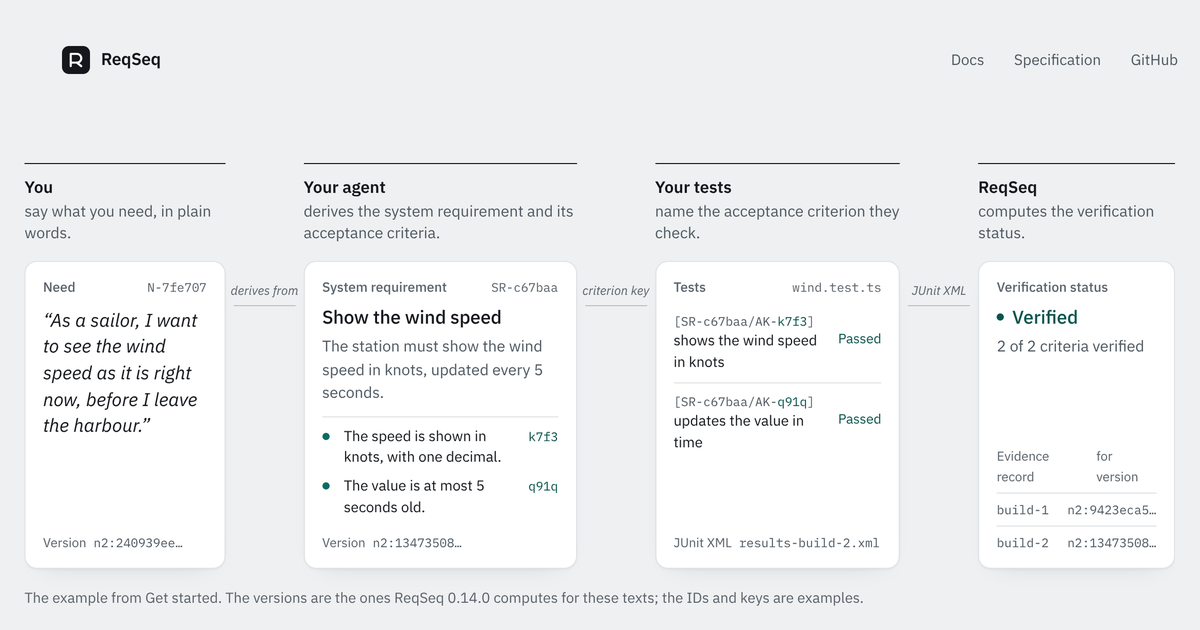
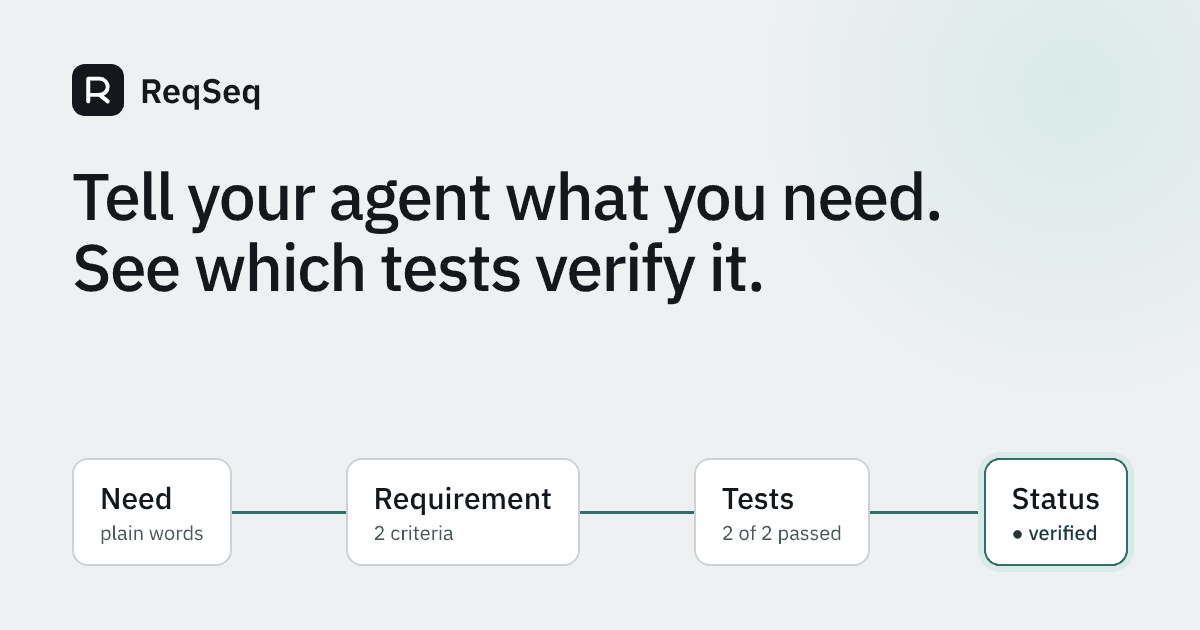
feat: first-visit pass: clearer hero, stage that waits, link preview (#10)
- Hero: shorter headline, how the agent works, what the download holds
  and which clients connect; system versions from the install guide.
- Stage starts once its cards are in view, rests on a short sentence,
  has Pause/Play, dims less and releases the dimming after a chosen step;
  the idle flow stops after three rounds. Chips are keyboard buttons.
- Start section names the path step and links Install and Connect.
- Second Download/Get started halfway down.
- New link preview image (tools/og.html), og/twitter meta, theme colour,
  font preload, lazy first screenshot, focus shows risen content,
  wording fixes from the review.

Claude-Session: https://claude.ai/code/session_01M3bZgpQEYe3Azsg5ZyeyQY

diff --git a/index.html b/index.html
@@ -4,16 +4,24 @@
 <meta charset="utf-8">
 <meta name="viewport" content="width=device-width, initial-scale=1">
 <meta name="color-scheme" content="light dark">
-<title>ReqSeq: requirements, traced from the need to the test that shows them</title>
-<meta name="description" content="ReqSeq is requirements engineering for agents and people. It traces a need through system requirements, acceptance criteria and tests to the evidence record of each test run, as Markdown files in your Git repository.">
+<title>ReqSeq: requirements your agent writes, traced to the tests that verify them</title>
+<meta name="description" content="Your agent breaks a need down into requirements, acceptance criteria and tests. ReqSeq traces them to each test run, as Markdown files in your Git repository.">
+<meta name="theme-color" media="(prefers-color-scheme: light)" content="#eef0f1">
+<meta name="theme-color" media="(prefers-color-scheme: dark)" content="#1a1d21">
 <link rel="canonical" href="https://thomasbirkmaier.github.io/">
 <meta property="og:type" content="website">
 <meta property="og:url" content="https://thomasbirkmaier.github.io/">
-<meta property="og:title" content="ReqSeq: requirements, traced from the need to the test that shows them">
-<meta property="og:description" content="Tell your agent what you need. It breaks the need down into system requirements, acceptance criteria and tests, and ReqSeq traces them through to the evidence record of each test run.">
+<meta property="og:site_name" content="ReqSeq">
+<meta property="og:title" content="ReqSeq: requirements your agent writes, traced to the tests that verify them">
+<meta property="og:description" content="Tell your agent what you need. See which tests verify it, and what is outdated since a requirement changed.">
 <meta property="og:image" content="https://thomasbirkmaier.github.io/assets/img/og.png">
+<meta property="og:image:width" content="1200">
+<meta property="og:image:height" content="630">
+<meta property="og:image:alt" content="ReqSeq: a need, its requirement, the tests and the status verified, in one chain.">
 <meta name="twitter:card" content="summary_large_image">
 <link rel="icon" href="favicon.svg" type="image/svg+xml">
+<link rel="preload" href="assets/fonts/ibm-plex-sans-400.woff2" as="font" type="font/woff2" crossorigin>
+<link rel="preload" href="assets/fonts/ibm-plex-sans-500.woff2" as="font" type="font/woff2" crossorigin>
 <link rel="stylesheet" href="assets/site.css">
 </head>
 <body class="no-js">
@@ -25,7 +33,7 @@
     <svg width="28" height="28" viewBox="0 0 32 32" aria-hidden="true"><rect class="logo-bg" width="32" height="32" rx="8"/><path class="logo-fg" d="M10 9h7a5 5 0 0 1 0 10h-7zM10 19v4M17 19l5 4" stroke-width="2.4" fill="none" stroke-linecap="round" stroke-linejoin="round"/></svg>
     ReqSeq
   </a>
-  <nav class="nav" aria-label="ReqSeq">
+  <nav class="nav" aria-label="Main">
     <a class="keep" href="https://thomasbirkmaier.github.io/ReqSeq/"><svg class="ico" viewBox="0 0 20 20" aria-hidden="true" focusable="false"><path pathLength="1" d="M10 5.5C8.5 4 6 3.5 3 3.5v12c3 0 5.5.5 7 2 1.5-1.5 4-2 7-2v-12c-3 0-5.5.5-7 2zM10 5.5v12"/></svg>Docs</a>
     <a href="https://thomasbirkmaier.github.io/ReqSeq/spec/"><svg class="ico" viewBox="0 0 20 20" aria-hidden="true" focusable="false"><path pathLength="1" d="M5 2.5h7l3.5 3.5v11.5H5z"/><path pathLength="1" d="M7.5 9.5l1.2 1.2 2.3-2.4M7.5 14h5"/></svg>Specification</a>
     <a class="keep" href="https://github.com/ThomasBirkmaier/ReqSeq"><svg class="ico gh" viewBox="0 0 16 16" aria-hidden="true" focusable="false"><path d="M8 0c4.42 0 8 3.58 8 8a8.013 8.013 0 0 1-5.45 7.59c-.4.08-.55-.17-.55-.38 0-.27.01-1.13.01-2.2 0-.75-.25-1.23-.54-1.48 1.78-.2 3.65-.88 3.65-3.95 0-.88-.31-1.59-.82-2.15.08-.2.36-1.02-.08-2.12 0 0-.67-.22-2.2.82-.64-.18-1.32-.27-2-.27-.68 0-1.36.09-2 .27-1.53-1.03-2.2-.82-2.2-.82-.44 1.1-.16 1.92-.08 2.12-.51.56-.82 1.28-.82 2.15 0 3.06 1.86 3.75 3.64 3.95-.23.2-.44.55-.51 1.07-.46.21-1.61.55-2.33-.66-.15-.24-.6-.83-1.23-.82-.67.01-.27.38.01.53.34.19.73.9.82 1.13.16.45.68 1.31 2.69.94 0 .67.01 1.3.01 1.49 0 .21-.15.45-.55.38A7.995 7.995 0 0 1 0 8c0-4.42 3.58-8 8-8Z"/></svg>GitHub</a>
@@ -35,24 +43,25 @@
 <main id="main">
 
 <div class="wrap hero">
-  <h1 aria-label="What you asked your agent for, traced to the test that shows it."><span class="w" style="--i:0" aria-hidden="true">What</span> <span class="w" style="--i:1" aria-hidden="true">you</span> <span class="w" style="--i:2" aria-hidden="true">asked</span> <span class="w" style="--i:3" aria-hidden="true">your</span> <span class="w" style="--i:4" aria-hidden="true">agent</span> <span class="w" style="--i:5" aria-hidden="true">for,</span> <span class="w" style="--i:6" aria-hidden="true">traced</span> <span class="w" style="--i:7" aria-hidden="true">to</span> <span class="w" style="--i:8" aria-hidden="true">the</span> <span class="w" style="--i:9" aria-hidden="true">test</span> <span class="w" style="--i:10" aria-hidden="true">that</span> <span class="w" style="--i:11" aria-hidden="true">shows</span> <span class="w" style="--i:12" aria-hidden="true">it.</span></h1>
-  <p class="lead">Tell your agent what you need. It breaks the need down into system requirements, acceptance criteria and tests, and ReqSeq traces them through to the evidence record of each test run. You keep the whole chain, not one specification document.</p>
+  <h1 aria-label="Tell your agent what you need. See which tests verify it."><span class="w" style="--i:0" aria-hidden="true">Tell</span> <span class="w" style="--i:1" aria-hidden="true">your</span> <span class="w" style="--i:2" aria-hidden="true">agent</span> <span class="w" style="--i:3" aria-hidden="true">what</span> <span class="w" style="--i:4" aria-hidden="true">you</span> <span class="w" style="--i:5" aria-hidden="true">need.</span> <span class="w" style="--i:6" aria-hidden="true">See</span> <span class="w" style="--i:7" aria-hidden="true">which</span> <span class="w" style="--i:8" aria-hidden="true">tests</span> <span class="w" style="--i:9" aria-hidden="true">verify</span> <span class="w" style="--i:10" aria-hidden="true">it.</span></h1>
+  <p class="lead">Your agent breaks the need down into system requirements and acceptance criteria through ReqSeq's MCP server or CLI, and names each criterion in the test that checks it. ReqSeq computes what is verified, and what is outdated once a requirement changes. You keep the whole chain, not one specification document.</p>
   <div class="actions">
     <a class="btn primary" href="https://github.com/ThomasBirkmaier/ReqSeq/releases/latest">Download ReqSeq</a>
     <a class="btn" href="https://thomasbirkmaier.github.io/ReqSeq/start/get-started/">Get started</a>
-    <p class="note">For macOS on Apple silicon, Linux x64 and Windows x64. <br>It runs on your computer and opens no network connection.</p>
+    <p class="note">One download with the command line, the MCP server and the web UI, for macOS 26 or newer on Apple silicon, Linux x64 (Ubuntu 24.04) and Windows 11 x64. <br>Connects to Claude Code, Cursor, VS Code, Codex CLI and Claude Desktop. Runs on your computer and opens no network connection.</p>
   </div>
 
   <div class="stage" id="stage" role="group" aria-label="The chain from a need to its evidence, shown in seven steps" data-ch="7" data-need="3" data-sr="3" data-rel="ok" data-keys="0" data-t1="1" data-t2="1" data-c1="ok" data-c2="ok" data-count="2" data-ver="ok" data-build="2">
     <div class="stage-head">
       <p class="say" aria-hidden="true">
+        <span data-c="0">From a need to a verified requirement, in seven steps.</span>
         <span data-c="1">You describe a need in plain words.</span>
-        <span data-c="2">Your agent derives a system requirement from it, with acceptance criteria.</span>
-        <span data-c="3">Each test names the acceptance criterion it checks, by its key.</span>
-        <span data-c="4">The test results come in as JUnit XML. ReqSeq computes the status: verified.</span>
-        <span data-c="5">Later the need changes. The relation still holds its old version, so it shows as outdated.</span>
-        <span data-c="6">You review the requirement, and it changes too. Its evidence is for the older version.</span>
-        <span data-c="7">The tests run again. The requirement is verified, for the version it has now.</span>
+        <span data-c="2">Your agent derives a system requirement with acceptance criteria.</span>
+        <span data-c="3">Each test names the criterion it checks, by its key.</span>
+        <span data-c="4">Test results arrive as JUnit XML. Status: verified.</span>
+        <span data-c="5">Later the need changes. The relation shows as outdated.</span>
+        <span data-c="6">You review the requirement, and it changes too. Its evidence is now outdated.</span>
+        <span data-c="7">The tests run again: verified, for the current version.</span>
       </p>
       <div class="ctl">
         <div class="segs" id="segs">
@@ -64,14 +73,14 @@
           <button class="seg" type="button" aria-label="Step 6: the evidence is outdated"><span><i></i></span></button>
           <button class="seg" type="button" aria-label="Step 7: verified again"><span><i></i></span></button>
         </div>
-        <button class="replay" type="button" id="stage-replay">Replay</button>
+        <button class="replay" type="button" id="stage-replay">Play</button>
       </div>
     </div>
-    <div class="mini" aria-hidden="true">
-      <button type="button" class="chip" data-view="1" tabindex="-1"><b>Need</b><span class="chip-s"></span></button><i class="mini-l m-1"></i>
-      <button type="button" class="chip" data-view="2" tabindex="-1"><b>Requirement</b><span class="chip-s"></span></button><i class="mini-l m-2"></i>
-      <button type="button" class="chip" data-view="3" tabindex="-1"><b>Tests</b><span class="chip-s"></span></button><i class="mini-l m-3"></i>
-      <button type="button" class="chip" data-view="4" tabindex="-1"><b>Status</b><span class="chip-s"></span></button>
+    <div class="mini" role="group" aria-label="Parts of the chain">
+      <button type="button" class="chip" data-view="1" aria-pressed="false"><b>Need</b><span class="chip-s"></span></button><i class="mini-l m-1"></i>
+      <button type="button" class="chip" data-view="2" aria-pressed="false"><b>Requirement</b><span class="chip-s"></span></button><i class="mini-l m-2"></i>
+      <button type="button" class="chip" data-view="3" aria-pressed="false"><b>Tests</b><span class="chip-s"></span></button><i class="mini-l m-3"></i>
+      <button type="button" class="chip" data-view="4" aria-pressed="false"><b>Status</b><span class="chip-s"></span></button>
     </div>
     <div class="chain-grid">
       <div class="lane lane-1"><b>You</b><span>say what you need, in plain words.</span></div>
@@ -140,7 +149,7 @@
   <div class="pillars">
     <div class="pillar">
       <h3><svg class="ico" viewBox="0 0 20 20" aria-hidden="true" focusable="false"><path pathLength="1" d="M3 4.5h14v9H8l-4 3v-3H3z"/><path pathLength="1" d="M6.5 8h7M6.5 10.5h4.5"/></svg>Through your agent</h3>
-      <p>You talk to your agent. It writes the needs, system requirements, acceptance criteria and tests, through ReqSeq's MCP server or CLI. Every command reports what the elements still lack, so the agent has its next step, even if you never open the web UI.</p>
+      <p>You talk to your agent. It writes the needs, system requirements and acceptance criteria through ReqSeq's MCP server or CLI, and the tests into your repository. Every command reports what the elements still lack, so the agent has its next step, even if you never open the web UI.</p>
       <p><a class="textlink" href="#h-agent">How the agent works with ReqSeq</a></p>
     </div>
     <div class="pillar">
@@ -149,14 +158,14 @@
       <p><a class="textlink" href="#h-ui">The web UI</a></p>
     </div>
   </div>
-  <p class="join">Both work on the same Markdown files in your Git repository. <b>Each way works on its own. Together, the agent writes and people decide.</b></p>
+  <p class="join">Both work on the same Markdown files in your Git repository. <b>Each works on its own. Together, the agent writes and people decide.</b></p>
 </section>
 
 <section class="wrap" aria-labelledby="h-agent">
   <div class="cols player" id="mcp" data-phase="0">
     <div class="side">
       <h2 id="h-agent">Talk to your agent. It keeps the requirements.</h2>
-      <p class="lead">ReqSeq does not run an agent itself. You talk to your own agent. It calls ReqSeq's commands, and the skill file that <code>workspace init</code> writes tells it how to work with them.</p>
+      <p class="lead">Spec-driven development with the agent you already use. It calls ReqSeq's commands, and the skill file that <code>workspace init</code> writes tells it how to work with them. ReqSeq runs no agent itself.</p>
       <ol class="sync">
         <li data-p="1"><span><b>You say what you need.</b> In your agent's chat, in plain words.</span></li>
         <li data-p="2"><span><b>The agent writes the elements.</b> A need, a system requirement with its acceptance criteria, and the relation between them, through the tools of the MCP server.</span></li>
@@ -182,7 +191,7 @@
   <div class="cols">
     <div class="head">
       <h2 id="h-tests">Your tests name the requirement. ReqSeq computes what is verified.</h2>
-      <p class="lead">A test names the requirement and the acceptance criterion it checks, in its name. Any test tool that writes JUnit XML works, without a converter or plugin.</p>
+      <p class="lead">A test names the requirement and the acceptance criterion it checks, in its name. Any test tool that writes JUnit XML works, such as Vitest, pytest, Jest, Maven or Gradle, without a converter or plugin.</p>
     </div>
   </div>
   <div class="cols wide player" id="cli" data-phase="0">
@@ -228,6 +237,13 @@
   </div>
 </section>
 
+<div class="wrap mid-cta">
+  <div class="actions">
+    <a class="btn primary" href="https://github.com/ThomasBirkmaier/ReqSeq/releases/latest">Download ReqSeq</a>
+    <a class="btn" href="https://thomasbirkmaier.github.io/ReqSeq/start/get-started/">Get started</a>
+  </div>
+</div>
+
 <section class="wrap" aria-labelledby="h-ui">
   <div class="cols">
     <div class="head">
@@ -243,16 +259,16 @@
     <button role="tab" id="t-matrix" aria-controls="p-matrix" aria-selected="false" tabindex="-1">Trace matrix</button>
   </div>
   <figure class="panel" role="tabpanel" id="p-overview" aria-labelledby="t-overview">
-    <div class="frame" style="--mw:327%;--mx:-151%;--my:-3.4%"><picture><source media="(prefers-color-scheme:dark)" srcset="assets/img/demo-overview-dark.webp"><img src="assets/img/demo-overview-light.webp" width="2400" height="1500" decoding="async" alt="The overview of the example workspace Weather station: 4 of 8 system requirements are verified, 1 has outdated evidence, 1 a failed test and 2 no evidence yet. Beside it the queues Evidence outdated and Drafts to decide."></picture></div>
+    <div class="frame" style="--mw:327%;--mx:-151%;--my:-3.4%"><picture><source media="(prefers-color-scheme:dark)" srcset="assets/img/demo-overview-dark.webp"><img loading="lazy" src="assets/img/demo-overview-light.webp" width="2400" height="1500" decoding="async" alt="The overview of the example workspace Weather station: 4 of 8 system requirements are verified, 1 has outdated evidence, 1 a failed test and 2 no evidence yet. Beside it the queues Evidence outdated and Drafts to decide."></picture></div>
     <figcaption>The overview counts what is verified and lists what needs a look or a decision: evidence that is outdated, drafts to decide, and the changes since the newest baseline.</figcaption>
   </figure>
   <figure class="panel" role="tabpanel" id="p-element" aria-labelledby="t-element">
     <div class="frame" style="--mw:300%;--mx:-75%;--my:-14.6%"><picture><source media="(prefers-color-scheme:dark)" srcset="assets/img/demo-element-dark.webp"><img loading="lazy" src="assets/img/demo-element-light.webp" width="2400" height="1500" decoding="async" alt="The page of the system requirement Warn of a gust front: status Approved, test failed, 1 of 2 criteria verified. Its two acceptance criteria, one verified and one with a failed test, and the need it derives from."></picture></div>
-    <figcaption>A system requirement with the need it derives from and its acceptance criteria. Each criterion shows whether it is verified. The status is yours to set, with Approve, Set status or Supersede: ReqSeq never sets a status itself.</figcaption>
+    <figcaption>A system requirement with the need it derives from and its acceptance criteria. Each criterion shows whether it is verified. The status is yours to set, with Set status or Supersede: ReqSeq never sets a status itself.</figcaption>
   </figure>
   <figure class="panel" role="tabpanel" id="p-evidence" aria-labelledby="t-evidence">
     <div class="frame" style="--mw:327%;--mx:-37.5%;--my:-17%"><picture><source media="(prefers-color-scheme:dark)" srcset="assets/img/demo-element-Evidence-dark.webp"><img loading="lazy" src="assets/img/demo-element-Evidence-light.webp" width="2400" height="1500" decoding="async" alt="The evidence of the requirement Warn of a gust front: criterion 1 verified by a passed test case, criterion 2 failed, each test case with the reference of its criterion in its name. Below, the form to record a check."></picture></div>
-    <figcaption>The evidence of a requirement, per acceptance criterion: the test cases that name it, with their result. A check that is no automated test, such as an inspection, is recorded on the same page.</figcaption>
+    <figcaption>The evidence of a requirement, per acceptance criterion: the test cases that name it, with their result. A check that is not an automated test, such as an inspection, is recorded on the same page.</figcaption>
   </figure>
   <figure class="panel" role="tabpanel" id="p-list" aria-labelledby="t-list">
     <div class="frame" style="--mw:300%;--mx:-53%;--my:-1%"><picture><source media="(prefers-color-scheme:dark)" srcset="assets/img/demo-list-dark.webp"><img loading="lazy" src="assets/img/demo-list-light.webp" width="2400" height="1500" decoding="async" alt="The list of the 8 system requirements, each with its status and its verification status, and on the right the values to narrow the list by: status, requirement type and package."></picture></div>
@@ -267,14 +283,14 @@
 
 <section class="wrap" aria-labelledby="h-more">
   <div class="cols split">
-    <div class="head"><h2 id="h-more">Also in ReqSeq.</h2></div>
+    <div class="head"><h2 id="h-more">Baselines, variants, ReqIF and your own metamodel.</h2></div>
     <dl class="body more">
       <div><dt><a href="https://thomasbirkmaier.github.io/ReqSeq/how-to/take-a-baseline/"><svg class="ico" viewBox="0 0 20 20" aria-hidden="true" focusable="false"><path pathLength="1" d="M2 10h5M13 10h5"/><circle pathLength="1" cx="10" cy="10" r="3"/></svg>Baselines</a></dt><dd>A baseline is a named state that no longer changes. Later you see what changed since, word by word.</dd></div>
       <div><dt><a href="https://thomasbirkmaier.github.io/ReqSeq/how-to/manage-a-product-variant/"><svg class="ico" viewBox="0 0 20 20" aria-hidden="true" focusable="false"><circle pathLength="1" cx="6" cy="4" r="1.8"/><circle pathLength="1" cx="6" cy="16" r="1.8"/><circle pathLength="1" cx="14" cy="6.5" r="1.8"/><path pathLength="1" d="M6 5.8v8.4M14 8.3c0 3.5-2.5 4.7-8 5.4"/></svg>Variants</a></dt><dd>A variant builds on the shared core and replaces or excludes single requirements.</dd></div>
       <div><dt><a href="https://thomasbirkmaier.github.io/ReqSeq/how-to/exchange-requirements-with-reqif/"><svg class="ico" viewBox="0 0 20 20" aria-hidden="true" focusable="false"><path pathLength="1" d="M3 7h12M12 4l3 3-3 3M17 13H5M8 10l-3 3 3 3"/></svg>ReqIF</a></dt><dd>Import and export of ReqIF 1.2 files, to exchange requirements with other tools.</dd></div>
       <div><dt><a href="https://thomasbirkmaier.github.io/ReqSeq/how-to/extend-the-metamodel/"><svg class="ico" viewBox="0 0 20 20" aria-hidden="true" focusable="false"><rect pathLength="1" x="3" y="3" width="5" height="5" rx="1"/><rect pathLength="1" x="12" y="3" width="5" height="5" rx="1"/><rect pathLength="1" x="7.5" y="12" width="5" height="5" rx="1"/><path pathLength="1" d="M5.5 8v1.5c0 1 .5 1.5 1.5 1.5h6c1 0 1.5-.5 1.5-1.5V8M10 11v1"/></svg>Your metamodel</a></dt><dd>Types, properties, relation kinds and statuses belong to the workspace. It starts with a standard model you can extend.</dd></div>
       <div><dt><a href="https://thomasbirkmaier.github.io/ReqSeq/how-to/publish-the-workspace-as-html/"><svg class="ico" viewBox="0 0 20 20" aria-hidden="true" focusable="false"><path pathLength="1" d="M5 2.5h7l3.5 3.5v11.5h-10.5z"/><path pathLength="1" d="M12 2.5V6h3.5M8.5 10.5 7 12l1.5 1.5M11.5 10.5 13 12l-1.5 1.5"/></svg>HTML export</a></dt><dd>The workspace as a folder of HTML pages that people read in a browser, without ReqSeq, Git or network.</dd></div>
-      <div><dt><a href="https://thomasbirkmaier.github.io/ReqSeq/how-to/record-test-evidence/"><svg class="ico" viewBox="0 0 20 20" aria-hidden="true" focusable="false"><path pathLength="1" d="M1.8 10S4.8 4.5 10 4.5 18.2 10 18.2 10 15.2 15.5 10 15.5 1.8 10 1.8 10z"/><circle pathLength="1" cx="10" cy="10" r="2.5"/></svg>Checks that are no tests</a></dt><dd>An inspection or a review is recorded as a verification record, for all acceptance criteria or for some.</dd></div>
+      <div><dt><a href="https://thomasbirkmaier.github.io/ReqSeq/how-to/record-test-evidence/"><svg class="ico" viewBox="0 0 20 20" aria-hidden="true" focusable="false"><path pathLength="1" d="M1.8 10S4.8 4.5 10 4.5 18.2 10 18.2 10 15.2 15.5 10 15.5 1.8 10 1.8 10z"/><circle pathLength="1" cx="10" cy="10" r="2.5"/></svg>Checks other than tests</a></dt><dd>An inspection or a review is recorded as a verification record, for all acceptance criteria or for some.</dd></div>
     </dl>
   </div>
 </section>
@@ -356,11 +372,11 @@
 
 <section class="wrap" aria-labelledby="h-start">
   <div class="cols start">
-    <div class="head"><h2 id="h-start">Try it in an empty folder.</h2></div>
+    <div class="head"><h2 id="h-start">Try it now, in an empty folder.</h2></div>
     <ol>
-      <li><span><b>Download the archive for your system and unpack it.</b> Unpacking is installing. ReqSeq needs <code>git</code> on the path.</span></li>
-      <li><span><b>Create a workspace and connect your agent.</b> <code>workspace init</code> also writes the skill file for your agent.</span></li>
-      <li><span><b>Tell your agent what you need.</b> Or work by hand: <code>reqseq ui</code> opens the web UI.</span></li>
+      <li><span><b>Download the archive for your system, unpack it and put <code>reqseq</code> on your path.</b> <a class="textlink" href="https://thomasbirkmaier.github.io/ReqSeq/how-to/install-reqseq/">Install ReqSeq</a> has the lines for your system. ReqSeq needs <code>git</code> on the path.</span></li>
+      <li><span><b>Create a workspace and connect your agent.</b> <code>workspace init</code> also writes the skill file for your agent; <a class="textlink" href="https://thomasbirkmaier.github.io/ReqSeq/how-to/connect-an-ai-agent/">Connect an AI agent</a> lists the clients.</span></li>
+      <li><span><b>Tell your agent what you need.</b> For example: “As a sailor, I want to see the wind speed before I leave the harbour.” Or work by hand: <code>reqseq ui</code> opens the web UI.</span></li>
     </ol>
     <div class="sheet" role="group" aria-label="Commands and output">
       <span class="l c">reqseq workspace init . "Weather station"</span>
@@ -378,10 +394,10 @@
       <span class="l i">reqseq element create &lt;type&gt; &lt;title&gt;              Create element</span>
       <span class="l gap"></span>
       <span class="l c">reqseq workspace <span class="nb">connect-agent</span> <span class="nb">--client</span> <span class="nb">claude-code</span></span>
+      <span class="l">Run this command in a terminal to connect Claude Code to the workspace "Weather station".</span>
     </div>
     <div class="actions">
       <a class="btn primary" href="https://github.com/ThomasBirkmaier/ReqSeq/releases/latest">Download ReqSeq</a>
-      <a class="btn" href="https://thomasbirkmaier.github.io/ReqSeq/how-to/install-reqseq/">Install ReqSeq</a>
       <a class="btn" href="https://thomasbirkmaier.github.io/ReqSeq/start/get-started/">Get started</a>
     </div>
   </div>
@@ -409,6 +425,6 @@
   <p class="note legal-links"><a href="impressum.html">Legal notice</a> · <a href="datenschutz.html">Privacy</a></p>
 </div>
 </footer>
-<script src="assets/site.js" defer></script>
+<script src="assets/site.js" defer onerror="document.body.className='no-js'"></script>
 </body>
 </html>

diff --git a/assets/site.css b/assets/site.css
@@ -182,13 +182,13 @@ ins{background:var(--accent-soft);box-shadow:0 0 0 .14em var(--accent-soft);colo
 .stage-head{margin-bottom:22px;display:flex;align-items:flex-start;justify-content:space-between;gap:6px 32px;flex-wrap:wrap}
 .say{display:grid;flex:1 1 24em;font-size:1.3125rem;line-height:1.4;letter-spacing:-.005em;min-height:1.4em}
 .say>span{grid-area:1/1;opacity:0;transition:opacity 380ms var(--ease);max-width:40em}
-.stage[data-ch="1"] .say>[data-c="1"],.stage[data-ch="2"] .say>[data-c="2"],.stage[data-ch="3"] .say>[data-c="3"],.stage[data-ch="4"] .say>[data-c="4"],.stage[data-ch="5"] .say>[data-c="5"],.stage[data-ch="6"] .say>[data-c="6"],.stage[data-ch="7"] .say>[data-c="7"]{opacity:1}
+.stage[data-ch="0"] .say>[data-c="0"],.stage[data-ch="1"] .say>[data-c="1"],.stage[data-ch="2"] .say>[data-c="2"],.stage[data-ch="3"] .say>[data-c="3"],.stage[data-ch="4"] .say>[data-c="4"],.stage[data-ch="5"] .say>[data-c="5"],.stage[data-ch="6"] .say>[data-c="6"],.stage[data-ch="7"] .say>[data-c="7"]{opacity:1}
 .ctl{display:flex;gap:6px 18px;align-items:center;flex-wrap:wrap}
 .segs{display:flex;gap:5px}
-.seg{appearance:none;border:0;background:none;padding:13px 0;width:30px;cursor:pointer}
-.seg span{display:block;height:2px;background:var(--line-strong);border-radius:1px;overflow:hidden}
+.seg{appearance:none;border:0;background:none;padding:21px 0;width:30px;cursor:pointer}
+.seg span{display:block;height:3px;background:var(--stroke);border-radius:2px;overflow:hidden}
+.seg[aria-current] span,.seg:hover span{background:var(--dim)}
 .seg i{display:block;height:100%;background:var(--accent);transform:scaleX(0);transform-origin:left center}
-.seg:hover span{background:var(--stroke)}
 .replay{appearance:none;background:none;border:0;padding:10px 2px;font:400 .9375rem/1 var(--sans);color:var(--dim);cursor:pointer;text-decoration:underline;text-decoration-color:var(--line-strong);text-underline-offset:4px;text-decoration-thickness:1.5px}
 .replay:hover{color:var(--ink)}
 .no-js .ctl,.still .replay{display:none}
@@ -307,8 +307,8 @@ section{margin-top:var(--gap)}
 /* Where to look while the stage plays: the part that just changed is lifted and ringed, the rest steps back. */
 @media (prefers-reduced-motion:no-preference){
   .node{transition:opacity 600ms var(--ease),transform 600ms var(--ease),box-shadow 600ms var(--ease),border-color 600ms var(--ease)}
-  .stage.focusing .node.on:not(.focus){opacity:.42}
-  .stage.focusing .link.on:not(.focus){opacity:.4}
+  .stage.focusing .node.on:not(.focus){opacity:.72}
+  .stage.focusing .link.on:not(.focus){opacity:.6}
   .stage.focusing .node.focus{transform:translateY(-6px);border-color:var(--accent);box-shadow:0 0 0 4px var(--accent-soft),0 18px 40px -18px rgba(11,107,97,.45)}
   .stage.focusing .link.focus i{border-top-color:var(--accent);border-left-color:var(--accent)}
   .stage.focusing .link.focus .cap{color:var(--accent-ink);font-weight:500}
@@ -411,13 +411,13 @@ footer .note{margin-top:22px}
 /* Gentle motion: content rises into place as it enters, the hero settles in once, the chain keeps a quiet flow,
    the icons draw themselves and the pages of the web UI cross-fade. All of it is off with reduced motion. */
 @media (prefers-reduced-motion:no-preference){
-  .js .rise{opacity:0;transform:translateY(42px) scale(.985);transition:opacity 900ms var(--ease),transform 1100ms cubic-bezier(.16,1,.3,1);transition-delay:calc(var(--i,0) * 120ms)}
+  .js .rise{opacity:0;transform:translateY(30px) scale(.985);transition:opacity 560ms var(--ease),transform 800ms cubic-bezier(.16,1,.3,1);transition-delay:calc(var(--i,0) * 70ms)}
+  .js .rise:focus-within{opacity:1;transform:none}
   .js .rise.in{opacity:1;transform:none}
   .js .hero h1 .w{display:inline-block;opacity:0;transform:translateY(.6em) rotate(2deg);transform-origin:left bottom;animation:word 1000ms cubic-bezier(.16,1,.3,1) forwards;animation-delay:calc(120ms + var(--i) * 65ms)}
   @keyframes word{to{opacity:1;transform:none}}
-  .js .hero .lead,.js .hero .actions{opacity:0;animation:word 900ms var(--ease) forwards;transform:translateY(10px)}
-  .js .hero .lead{animation-delay:620ms}
-  .js .hero .actions{animation-delay:760ms}
+  .js .hero .lead{opacity:0;animation:word 800ms var(--ease) forwards;transform:translateY(10px)}
+  .js .hero .lead{animation-delay:420ms}
   .js .rise .ico *,.js .rise.ico *{stroke-dasharray:1;stroke-dashoffset:1;transition:stroke-dashoffset 1200ms var(--ease);transition-delay:calc(200ms + var(--i,0) * 90ms)}
   .js .rise.in .ico *{stroke-dashoffset:0}
   .js .panel:not([hidden]) .frame{animation:panel 520ms var(--ease)}
@@ -439,7 +439,7 @@ footer .note{margin-top:22px}
 .mini{display:none}
 @media (max-width:1020px){
   .stage.compact .mini{display:grid;grid-template-columns:auto minmax(8px,1fr) auto minmax(8px,1fr) auto minmax(8px,1fr) auto;align-items:center;margin:2px 0 16px}
-  .chip{all:unset;cursor:pointer;display:flex;flex-direction:column;gap:2px;padding:7px 10px;border:1px solid var(--line-strong);border-radius:9px;background:var(--pane);opacity:.35;transition:opacity 400ms var(--ease),border-color 400ms var(--ease),box-shadow 400ms var(--ease),transform 400ms var(--ease);min-width:0}
+  .chip{all:unset;cursor:pointer;display:flex;flex-direction:column;gap:2px;padding:7px 10px;border:1px solid var(--line-strong);border-radius:9px;background:var(--pane);opacity:.75;transition:opacity 400ms var(--ease),border-color 400ms var(--ease),box-shadow 400ms var(--ease),transform 400ms var(--ease);min-width:0}
   .chip b{font-size:.75rem;font-weight:600;color:var(--ink);white-space:nowrap}
   .chip-s{font-size:.6875rem;color:var(--faint);white-space:nowrap;min-height:1em}
   .chip.on{opacity:1}
@@ -448,7 +448,7 @@ footer .note{margin-top:22px}
   .chip.warn{border-color:var(--warn-line)}
   .chip.warn .chip-s{color:var(--warn)}
   .chip:focus-visible{outline:2px solid var(--accent);outline-offset:2px}
-  .mini-l{height:0;border-top:1.5px solid var(--stroke);opacity:.3;transform:scaleX(.2);transform-origin:left;transition:opacity 400ms var(--ease),transform 500ms var(--ease)}
+  .mini-l{height:0;border-top:1.5px solid var(--stroke);opacity:.5;transform:scaleX(.2);transform-origin:left;transition:opacity 400ms var(--ease),transform 500ms var(--ease)}
   .mini-l.on{opacity:1;transform:none}
   .mini-l.warn{border-top:1.5px dashed var(--warn-line)}
   .stage.compact .link{display:none}
@@ -486,3 +486,6 @@ footer .note{margin-top:22px}
 .legal h2{font-size:1.125rem;font-weight:600;letter-spacing:0;margin:36px 0 8px}
 .legal p+p{margin-top:12px}
 .legal a,.legal-links a{color:inherit}
+/* A second way to start, halfway down the page. */
+.mid-cta{margin-top:calc(var(--gap) * .6)}
+.mid-cta .actions{margin-top:0;justify-content:center}

diff --git a/assets/site.js b/assets/site.js
@@ -10,7 +10,7 @@
   function clock(tick){
     var last=0,t=0,on=false;
     function frame(now){if(!on)return;t+=Math.min(now-last,80);last=now;if(tick(t)!==false)requestAnimationFrame(frame);else on=false}
-    return {start:function(){t=0;last=performance.now();if(!on){on=true;requestAnimationFrame(frame)}},stop:function(){on=false}};
+    return {start:function(){t=0;this.resume()},resume:function(){last=performance.now();if(!on){on=true;requestAnimationFrame(frame)}},stop:function(){on=false},running:function(){return on}};
   }
 
   // The stage: fifteen small steps in seven chapters. Each step is a complete state, so any chapter can be shown directly.
@@ -40,11 +40,11 @@
     // On a narrow screen the stage shows a small chain of four chips, always in view, and one card below it:
     // the part that changes now. A chip opens its card and holds the story there; Replay starts it again.
     var viewOf={1:1,2:1,3:2,4:3,5:2,6:3,7:2,8:3,9:4,10:1,11:1,12:2,13:4,14:3,15:4},chipS=stage.querySelectorAll(".chip-s"),chips=stage.querySelectorAll(".chip");
-    function view(v){stage.dataset.view=v;each(chips,function(c){c.classList.toggle("now",+c.dataset.view===v)})}
+    function view(v){stage.dataset.view=v;each(chips,function(c){var on=+c.dataset.view===v;c.classList.toggle("now",on);c.setAttribute("aria-pressed",on?"true":"false")})}
     function mini(s,old){
       if(!chipS.length)return;
       var t=[
-        s<1?"":s>=10?"changed":"plain words",
+        s<1?"":s>=10&&s<15?"changed":"plain words",
         s<3?"":s===11||s===12?"to review":s>=12&&s<15?"changed":"2 criteria",
         s<4?"":old?"older version":(s>=8?2:s>=6?1:0)+" of 2 passed",
         s<6?"":old?"outdated":s>=9?"verified":"open"];
@@ -55,7 +55,7 @@
       stage.querySelector(".m-3").className="mini-l m-3"+(s>=6?" on":"")+(old?" warn":"");
       if(viewOf[s])view(viewOf[s]);
     }
-    each(chips,function(c){c.addEventListener("click",function(){if(c.classList.contains("on")){run.stop();view(+c.dataset.view)}})});
+    each(chips,function(c){c.addEventListener("click",function(){if(c.classList.contains("on")){pause();view(+c.dataset.view)}})});
     // Where to look: the part that just changed is lifted and ringed, the rest steps back a little.
     var focus={1:[".n-need"],2:[".l-1"],3:[".n-sr"],4:[".l-2",".n-tests"],5:[".n-sr .crit",".n-tests"],6:[".n-tests .t1",".l-3",".n-ev"],7:[".n-sr .c1",".n-ev"],8:[".n-tests .t2"],9:[".n-sr .c2",".n-ev"],10:[".n-need"],11:[".l-1"],12:[".n-sr"],13:[".l-3",".n-ev"],14:[".n-tests",".l-3"],15:[".n-ev"]};
     function focusOn(s){
@@ -71,7 +71,7 @@
     var step=0,run=clock(function(t){
       while(step<15&&t>=at[step+1]){step++;show(step);(pulses[step]||[]).forEach(pulse);if(pings[step])ping(pings[step])}
       fill(t);
-      if(t>=end){focusing=false;focusOn(15);idle();return false}
+      if(t>=end){focusing=false;focusOn(15);label("Replay");idle();return false}
       return true;
     });
     // After the story: a quiet flow along the chain, from the need to the evidence, while the stage is in view.
@@ -81,15 +81,26 @@
       if(!seen||document.hidden)return;
       [".l-1",".l-2",".l-3"].forEach(function(sel,k){setTimeout(function(){var l=stage.querySelector(sel);l.classList.remove("flow");void l.offsetWidth;l.classList.add("flow")},k*650)});
     }
-    function idle(){if(!flowing&&!still){flowing=setInterval(flow,5200);setTimeout(flow,1600)}}
-    function play(){focusing=true;step=0;show(0);fill(0);run.start()}
+    // Three quiet rounds, then the stage rests.
+    function idle(){if(!flowing&&!still){var n=0;flowing=setInterval(function(){flow();if(++n>=2){clearInterval(flowing);flowing=null}},5200);setTimeout(flow,1600)}}
+    // The button under the story: Pause while it runs, Play after a pause, Replay at the end.
+    var btn=document.getElementById("stage-replay"),release=0;
+    function label(t){btn.textContent=t}
+    function play(){clearTimeout(release);focusing=true;step=0;show(0);fill(0);run.start();label("Pause")}
+    function pause(){if(run.running()){run.stop();label(step<15?"Play":"Replay")}}
+    // A chosen step shows its highlight for a moment, then all cards read at full strength.
+    function settle(){clearTimeout(release);release=setTimeout(function(){focusing=false;focusOn(step)},2500)}
     each(stage.querySelectorAll(".seg"),function(b,k){b.addEventListener("click",function(){
-      run.stop();focusing=true;step=chapterEnd[k];show(step);fill(chapterStart[k+1]);
+      run.stop();label("Replay");focusing=true;step=chapterEnd[k];show(step);fill(chapterStart[k+1]);settle();each(segs,function(x,j){var el=x.parentNode.parentNode;if(j===k)el.setAttribute("aria-current","step");else el.removeAttribute("aria-current")})
     })});
-    document.getElementById("stage-replay").addEventListener("click",play);
+    btn.addEventListener("click",function(){if(run.running())pause();else if(btn.textContent==="Play"){clearTimeout(release);focusing=true;run.resume();label("Pause")}else play()});
     if(!still)stage.classList.add("compact");
-    if(still){stage.classList.add("still");show(15);fill(end)}
-    else{show(0);whenSeen(stage,.45,play)}
+    if(still){stage.classList.add("still");show(15);fill(end);stage.dataset.ch=0}
+    else{
+      // The story starts once its cards are fully in view, so its end is not played below the fold.
+      var grid=stage.querySelector(".chain-grid");
+      show(0);whenSeen(grid,Math.min(.9,innerHeight*.85/Math.max(grid.offsetHeight,1)),play);
+    }
   })();
 
   // Played sessions: the parts appear in the order of the page, a typed part letter by letter.

diff --git a/tools/og.html b/tools/og.html
@@ -1,0 +1,24 @@
+<!doctype html><html><head><meta charset="utf-8"><style>
+@font-face{font-family:P;font-weight:400;src:url(../assets/fonts/ibm-plex-sans-400.woff2)}
+@font-face{font-family:P;font-weight:500;src:url(../assets/fonts/ibm-plex-sans-500.woff2)}
+@font-face{font-family:P;font-weight:600;src:url(../assets/fonts/ibm-plex-sans-600.woff2)}
+*{box-sizing:border-box;margin:0}
+body{width:1200px;height:630px;background:#eef0f1;color:#14181d;font-family:P,sans-serif;padding:64px 72px;display:flex;flex-direction:column;position:relative;overflow:hidden}
+body::after{content:"";position:absolute;right:-180px;top:-220px;width:620px;height:620px;border-radius:50%;background:radial-gradient(circle,#d9ebe7 0,rgba(217,235,231,0) 70%)}
+.brand{display:flex;align-items:center;gap:16px;font-weight:600;font-size:34px;position:relative;z-index:1}
+h1{font-weight:500;font-size:66px;line-height:1.08;letter-spacing:-.025em;margin-top:44px;max-width:980px;position:relative;z-index:1}
+.chain{display:flex;align-items:center;margin-top:auto;position:relative;z-index:1}
+.b{background:#fff;border:2px solid #cdd2d7;border-radius:16px;padding:18px 26px;font-size:30px;font-weight:500;white-space:nowrap}
+.b small{display:block;font-size:20px;font-weight:400;color:#4f5962;margin-top:2px}
+.l{flex:1;height:0;border-top:3px solid #0b6b61;min-width:26px}
+.ok{border-color:#0b6b61;box-shadow:0 0 0 6px #d9ebe7}
+.ok small{color:#08544c;font-weight:500}
+</style></head><body>
+<div class="brand"><svg width="52" height="52" viewBox="0 0 32 32"><rect fill="#14181d" width="32" height="32" rx="8"/><path stroke="#fff" d="M10 9h7a5 5 0 0 1 0 10h-7zM10 19v4M17 19l5 4" stroke-width="2.4" fill="none" stroke-linecap="round" stroke-linejoin="round"/></svg>ReqSeq</div>
+<h1>Tell your agent what you need. See which tests verify it.</h1>
+<div class="chain">
+<div class="b">Need<small>plain words</small></div><i class="l"></i>
+<div class="b">Requirement<small>2 criteria</small></div><i class="l"></i>
+<div class="b">Tests<small>2 of 2 passed</small></div><i class="l"></i>
+<div class="b ok">Status<small>● verified</small></div>
+</div></body></html>
